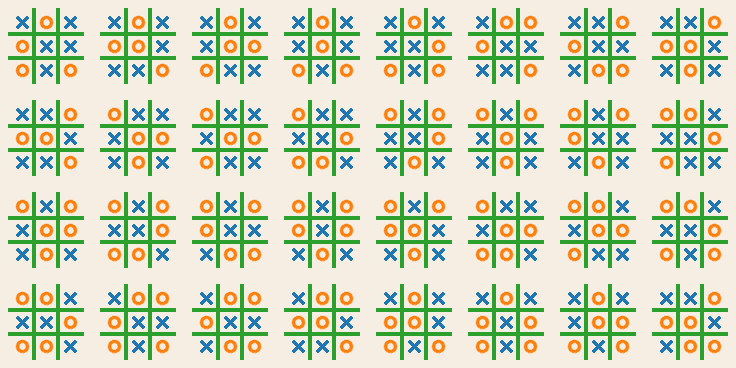
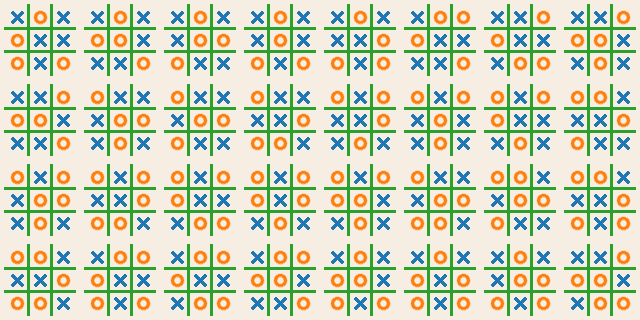
Fixed grid drawing, on to Game Tree App

diff --git a/rl/tic_tac_toe.py b/rl/tic_tac_toe.py
@@ -12,16 +12,14 @@ import re
 import cv2
 from util import get_annulus_polyline
 import matplotlib.pyplot as plt
-from drawing import MarkerArtist
-from game_base import Mark, Result, WIN_MARKS
+from drawing import MarkerArtist, draw_win_line
+from game_base import Mark, Result, WIN_MARKS, get_cell_center
 import logging
 import pickle
 import os
-from colors import OFF_WHITE_RGB, DARK_NAVY_RGB
+from colors import COLOR_BG, COLOR_LINES, COLOR_DRAW, COLOR_X, COLOR_O
 
 # Defaults to get_img
-COLOR_BG = OFF_WHITE_RGB
-COLOR_LINES = DARK_NAVY_RGB
 
 ARTIST = MarkerArtist()  # change default marker colors w/args here
 
@@ -88,8 +86,10 @@ class Game(object):
         return '\n'.join(['\t'*n_tabs + line for line in s.split('\n')])
 
     @staticmethod
-    def get_image_dims(space_size, bar_w_frac=.1):
+    def get_image_dims(space_size, bar_w_frac=.15, marker_padding_frac=.4):
         """
+        Get the dimensions dict for drawing a game state.
+
                 +--u--u--+
                 |  |  |  |
                 +--+--+--+
@@ -103,11 +103,19 @@ class Game(object):
         * The upper and lower attachment points are the 'u' and 'l' points, respectively.
         * The bounding box may or may not be drawn, but is included in the grid's side length.
 
+        Therefore, the smallest possible grid size is 7x7 pixels, space_size=1.
+        (The minimum bar width is 1 pixel, regardless of bar_w_frac.)
+
+        :param space_size: int, width in pixels of a squares in the 3x3 game grid.
+        :param bar_w_frac: float, width of the lines of the grid as a fraction of space_size.
+
         :returns: dict with
           'img_size': grid image's side length
           'line_t': line width for the 4 grid lines and the bounding box
           'upper': [(x1, y1), (x2, y2)] attachment points for the upper grid line (floats, non-integers if line_width is even)
           'lower': [(x1, y1), (x2, y2)] attachment points for the lower grid line
+            'space_size': space_size
+            'bar_w': grid line width
         """
         grid_line_width = max(1, int(space_size * bar_w_frac))
         img_side_len = space_size * 3 + grid_line_width * 4
@@ -115,91 +123,80 @@ class Game(object):
                  (space_size * 2 + 5 * grid_line_width / 2, 0)]
         lower = [(upper[0][0], img_side_len),
                  (upper[1][0], img_side_len)]
+
+        cell_x = (grid_line_width, grid_line_width + space_size)  # x range of first cell
+        cell_y = (grid_line_width, grid_line_width + space_size)  # y range of first cell
+        cell_x_offset = space_size + grid_line_width  # add one or two to cell_X to get the other cells
+        cell_y_offset = space_size + grid_line_width  # add one or two to cell_Y to get the other cells
+
+        # cell_span[row][col] = {'x': (x1, x2), 'y': (y1, y2)}
+        cell_spans = [[{'x': (cell_x[0] + col * cell_x_offset, cell_x[0] + col * cell_x_offset + space_size),
+                        'y': (cell_y[0] + row * cell_y_offset, cell_y[0] + row * cell_y_offset + space_size)}
+                       for col in range(3)]
+                      for row in range(3)]
+
         return {'img_size': img_side_len,
                 'line_t': grid_line_width,
+                'space_size': space_size,
+                'bar_w': grid_line_width,
                 'upper': upper,
-                'lower': lower}
+                'lower': lower,
+                'cells': cell_spans,
+                'marker_padding_frac': marker_padding_frac}
 
-    def get_img(self, space_size=11,
-                bar_w_frac=.1,
-                marker_padding_frac=.25,  # shrink markers within their cells by this much 
-                color_bg=OFF_WHITE_RGB,
-                color_lines=DARK_NAVY_RGB,
-                draw_box=True):
+    def get_img(self,
+                dims,
+                color_bg=COLOR_BG,
+                color_lines=COLOR_LINES,
+                draw_box=None):
         """
         Return an image of the game board & its dimension dictionary.
-        :param space_size: size of each cell in pixels
-        :param bar_w_frac: width of the lines as a fraction of space_size
-        :param marker_padding_frac: padding around the marker as a fraction of space_size
+
+        :param dims: dict, output of get_image_dims
         :param color_bg: color of the background
         :param color_lines: color of the lines
         :param draw_box: draw a bounding box around the grid (with (non)terminal color)
-        """
-        # Param to MarkerArtist.add_marker, what to draw for each Mark / Result
-        artist_arg = {Mark.X: 'X', Mark.O: 'O', Result.X_WIN: 'X', Result.O_WIN: "O", Result.DRAW: "D"}
-        # marker_colors = {Mark.X: self._color_x, Mark.O: self._color_o, Mark.EMPTY: self._color_draw}
-        space_size = space_size + 1 if space_size % 2 == 1 else space_size  # displays better with odd cell sizes
-        dims = self.get_image_dims(space_size, bar_w_frac)
+            if None, only draw the box around terminal states
 
-        img = np.zeros((dims['img_size'], dims['img_size'], 3), dtype=np.uint8)
+        """
+
+        space_size = dims['space_size']
+        line_t = dims['line_t']
+        img_s = dims['img_size']
+
+        # Create the image
+        img = np.zeros((img_s, img_s, 3), dtype=np.uint8)
         img[:, :] = color_bg
 
         # Draw grid, change color if terminal
         term = self.check_endstate()
-        color_lines = {Result.DRAW: self._mark_artist.color_d,
-                       Result.X_WIN: self._mark_artist.color_x,
-                       Result.O_WIN: self._mark_artist.color_o}[term] if term is not None else color_lines
+        color_lines = {Result.DRAW: COLOR_DRAW,
+                       Result.X_WIN: COLOR_X,
+                       Result.O_WIN: COLOR_O}[term] if term is not None else color_lines
+
+        drawing_box = (draw_box is None and term is not None) or draw_box
+
         for i in range(4):
-            if not draw_box and i not in [1, 2]:
+            if not drawing_box and i not in [1, 2]:
                 continue
-            z_0 = i * (space_size + dims['line_t'])
-            z_1 = z_0 + dims['line_t']
+            z_0 = i * (space_size + line_t)
+            z_1 = z_0 + line_t
             img[z_0:z_1, :] = color_lines
             img[:, z_0:z_1] = color_lines
 
         # Draw markers
-        centers = {}  # (i, j) -> (x, y) center of cell(i,j)
         for i in range(3):
             for j in range(3):
                 if self.state[i, j] == Mark.EMPTY:
                     continue
-                x_center = j * (space_size + dims['line_t']) + space_size / 2 + dims['line_t']
-                y_center = i * (space_size + dims['line_t']) + space_size / 2 + dims['line_t']
-                center = (x_center, y_center)
-                centers[(i, j)] = center
-                m_char = artist_arg[self.state[i, j]]
-                self._mark_artist.add_marker(img, center, space_size, m_char, pad_frac=marker_padding_frac)
+                self._mark_artist.add_marker(img, dims, (i, j), self.state[i, j])
 
         # Draw win lines (through the whole grid)
+        # TODO:  Skip for tiny images
         win_lines = self.get_win_lines()
         for line in win_lines:
-            orient = line['orient']
-            # First use the cell centers as the line endpoints
-            p0 = centers[line['c1']]
-            p1 = centers[line['c2']]
-            # Then extend outwards depending on the orientation
-            if orient in ['h', 'd']:
-                p0 = (0, p0[1])
-                p1 = (dims['img_size'], p1[1])
-            if orient in ['v', 'd']:
-                p0 = (p0[0], 0)
-                p1 = (p1[0], dims['img_size'])
-            x0, x1 = int(p0[0]), int(p1[0])
-            y0, y1 = int(p0[1]), int(p1[1])
+            draw_win_line(img, dims, line, color_lines)
 
-            cv2.line(img, (x0, y0), (x1, y1), color_lines, dims['line_t'], cv2.LINE_AA)
-
-        """
-        # Draw win/loss/draw label
-        term = self.check_endstate()
-        if term is not None:
-            # Draw marker over entire board
-            img_side_len = img.shape[0]
-            marker = artist_arg[term]
-            img_center = (img_side_len//2, img_side_len//2)
-            self._mark_artist.add_marker(img, img_center, img_side_len, marker,
-                                         pad_frac=marker_padding_frac * 1.5)  # pad more for full board marker
-        """
         return img
 
     def get_win_lines(self):
@@ -253,9 +250,11 @@ class GameTree(object):
 
     def __init__(self, player, verbose=False):
         self._player = player
-        
-        self._terminal = {} # state (Game): (None or one of the Result values).  Check here to if a state has been seen before.
-        self._children = {} # state: {child_state: (action, player) for each of state's child states}, w/the player & actions that led to them.
+
+        # state (Game): (None or one of the Result values).  Check here to if a state has been seen before.
+        self._terminal = {}
+        # state: {child_state: (action, player) for each of state's child states}, w/the player & actions that led to them.
+        self._children = {}
         self._parents = {}  # state: [state].  List of states that can lead to this state.
         self._initial = []  # List of initial states.
         self._verbose = verbose
@@ -347,7 +346,7 @@ def get_game_tree_cached(player, verbose=False):
         print("Loading game tree from cache file: ", filename)
         with open(filename, "rb") as f:
             data = pickle.load(f)
-        print("\tloaded game tree from cache file: %s"% filename)
+        print("\tloaded game tree from cache file: %s" % filename)
         return data
     else:
         print("Cache file not found: ", filename)
@@ -392,18 +391,18 @@ def test_game_tree():
     filename = "draw_states_all.png"
 
     cell_size = 20
-    bar_w_frac = .2
+    bar_w_frac = .15
     cell_dims = Game.get_image_dims(cell_size, bar_w_frac=bar_w_frac)
-    grid_pad = cell_dims['line_t'] * 2
+    grid_pad = int(cell_dims['line_t'] * 1.5)
     draw_states = [state for state in terminal if terminal[state] == Result.DRAW]
     draw_state_img_size = 4*(cell_dims['img_size'] + 2 * grid_pad)
     pad = 4  # on all sides
 
-    draw_state_imgs = [state.get_img(space_size=cell_size, bar_w_frac=bar_w_frac,
+    draw_state_imgs = [state.get_img(cell_dims,
                                      color_bg=COLOR_BG,
                                      color_lines=COLOR_LINES,
                                      draw_box=False) for state in draw_states]
-    
+
     img_size = draw_state_imgs[0].shape[:2][::-1]
     draw_img = np.zeros((draw_state_img_size, 2*draw_state_img_size, 3), dtype=np.uint8)
     draw_img[:] = COLOR_BG
@@ -424,5 +423,19 @@ def test_game_tree():
     cv2.waitKey(0)
 
 
+def make_image():
+    game = Game.from_strs(["X  ",
+                           "   ",
+                           "   "])
+    print(game)
+
+    dims = game.get_image_dims(17)
+    img = game.get_img(dims)
+    import matplotlib.pyplot as plt
+    plt.imshow(img)
+    plt.show()
+
+
 if __name__ == '__main__':
-    test_game_tree()
+    # test_game_tree()
+    make_image()

diff --git a/rl/test_drawing.py b/rl/test_drawing.py
@@ -1,0 +1,59 @@
+import matplotlib.pyplot as plt
+
+from tic_tac_toe import Game
+from game_base import Mark, Result
+import numpy as np
+import cv2
+from colors import COLOR_LINES, COLOR_BG, COLOR_X, COLOR_O, COLOR_DRAW
+
+
+def get_test_state():
+    chars = ["X", "O", " "]
+    rows = ["".join(np.random.choice(chars, 3)) for _ in range(3)]
+    return Game.from_strs(rows)
+
+
+def test_grid_sizes():
+    test_size_px = 150  # box this wide
+    space_sizes = np.array([[1,2,3,4],[5,6,7,8],[10,13,16,20],[25,30,35,40]])
+    img_h_px = test_size_px * space_sizes.shape[1]
+    img_w_px = test_size_px * space_sizes.shape[0]
+    img = np.zeros((img_h_px, img_w_px, 3), dtype=np.uint8)
+    img[:, :] = COLOR_BG
+    # Fill each grid with as many random game states as will fit, in rows and columns
+    for test_row in range(space_sizes.shape[0]):
+        y_top = test_row * test_size_px
+        for test_col in range(space_sizes.shape[1]):
+            x_left = test_col * test_size_px
+
+            space_size = space_sizes[test_row, test_col]
+            dims = Game.get_image_dims(space_size)
+
+
+            g_size = dims['img_size'] 
+            g_pad = int(g_size *.2)
+
+            n_g_rows = test_size_px // (g_size + g_pad)
+            n_g_cols = test_size_px // (g_size + g_pad)
+            print(f"Test({test_row}, {test_col}) will have {n_g_rows} x {n_g_cols} games, each of size {g_size} and cell_size {space_sizes[test_row, test_col]}")
+            
+            for r in range(n_g_rows):
+                for c in range(n_g_cols):
+                    game = get_test_state()
+                    state_img = game.get_img(dims)
+                    x = x_left + c * (g_size + g_pad) + g_pad//2
+                    y = y_top + r * (g_size + g_pad) + g_pad//2
+                    
+                    img[y:y + g_size, x:x + g_size] = state_img
+    plt.imshow(img)
+    plt.show()   
+
+
+
+
+
+
+
+
+if __name__ == "__main__":
+    test_grid_sizes()

diff --git a/rl/game_base.py b/rl/game_base.py
@@ -14,3 +14,16 @@ class Mark(IntEnum):
 
 WIN_MARKS ={Mark.X: Result.X_WIN, 
             Mark.O: Result.O_WIN}
+
+
+def get_cell_center(dims, ij):
+    """
+    Get the  x, y coordinates of the center of the cell at (i, j)"
+
+    :param dims: dict, output of Game.get_image_dims()
+    :param ij: tuple, (i, j) location in the 3x3 grid, (0,1,2) for each
+    :returns: tuple, (x, y) coordinates of the center of the cell (possibly floats)
+    """
+    x_span = dims['cells'][ij[0]][ij[1]]['x']
+    y_span = dims['cells'][ij[0]][ij[1]]['y']
+    return (x_span[0] + (x_span[1]-1)) / 2, (y_span[0] + (y_span[1]-1)) / 2

diff --git a/rl/colors.py b/rl/colors.py
@@ -4,3 +4,10 @@ MPL_GREEN_RGB = 44, 160, 44    # Draw
 OFF_WHITE_RGB = 246, 238, 227  # Background
 DARK_NAVY_RGB = 0, 4, 51       # Lines
 
+
+COLOR_BG = OFF_WHITE_RGB
+COLOR_LINES = DARK_NAVY_RGB
+
+COLOR_X = MPL_BLUE_RGB
+COLOR_O = MPL_ORANGE_RGB    
+COLOR_DRAW = MPL_GREEN_RGB
